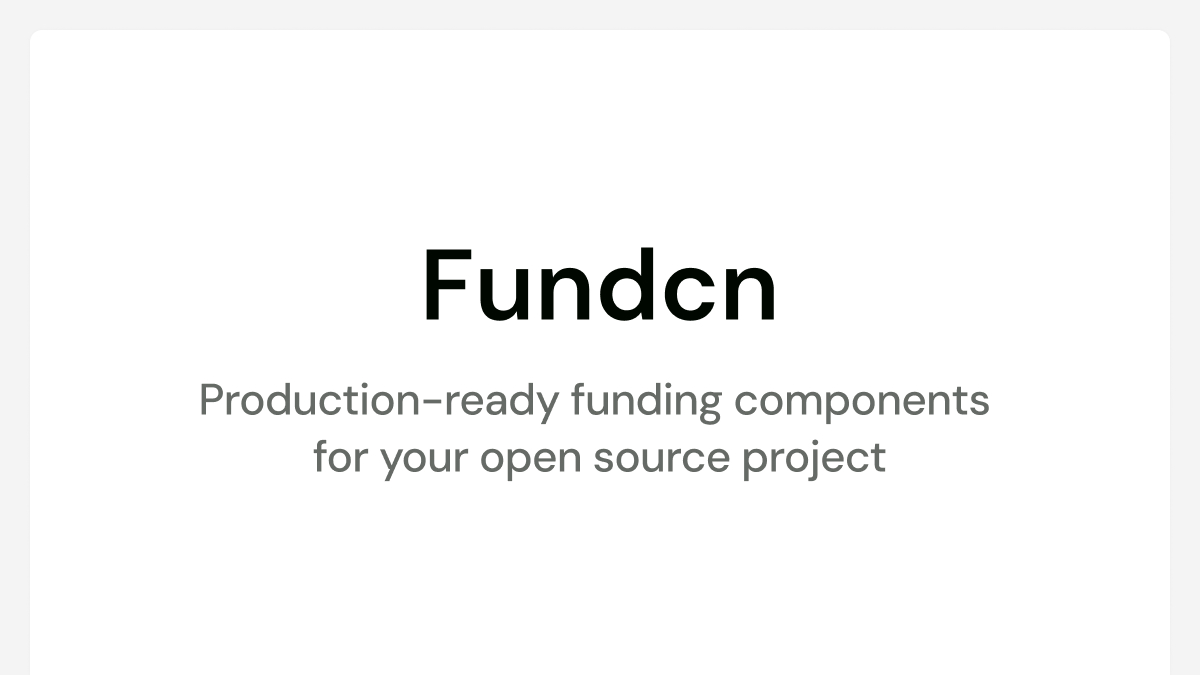
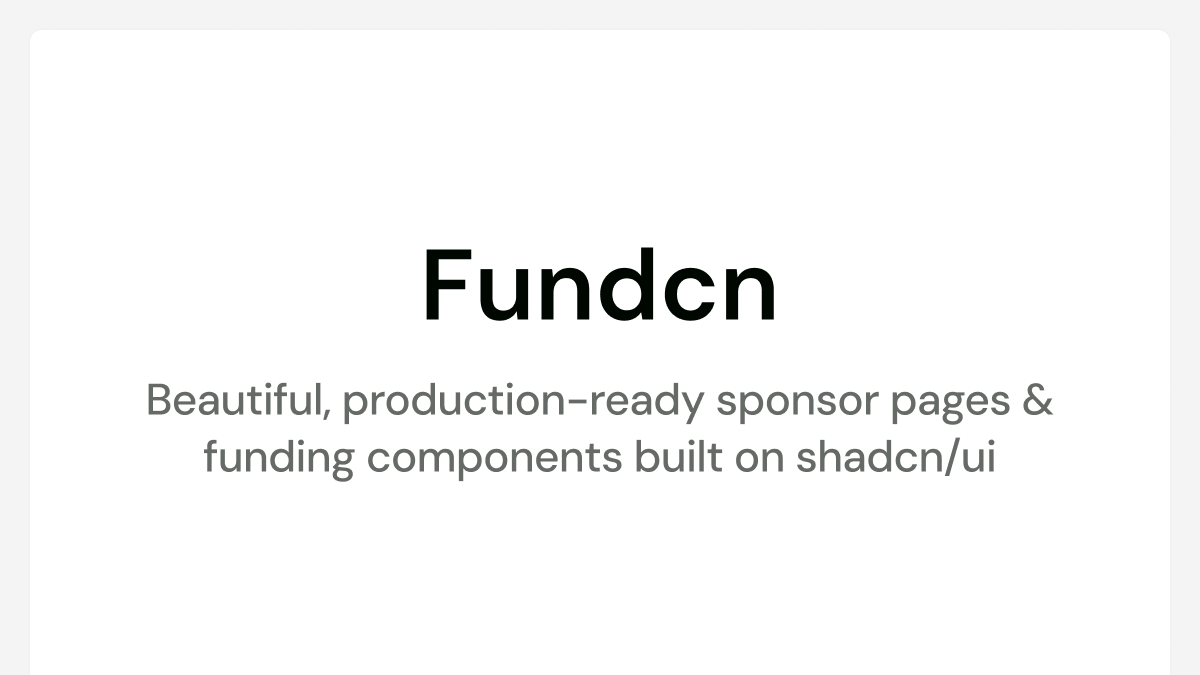
feat: improve pricing table UI and update SEO branding

Changed region(s): [[0.1233, 0.56, 0.8942, 0.7156]]

diff --git a/src/components/builder/topbar.tsx b/src/components/builder/topbar.tsx
@@ -1,9 +1,12 @@
 import { useEffect, useState, lazy, Suspense } from "react"
 import { ChevronDownIcon } from "lucide-react"
+import { MorphIcon } from "morphicons/react"
+import { Moon, Sun } from "lucide"
 
 import { cn } from "@/lib/utils"
 import { useTheme } from "@/hooks/theme-context"
 import { PresetSwatch } from "@/components/builder/preset-swatch"
+import { Button } from "@/components/ui/button"
 
 const ThemeGenerator = lazy(() =>
   import("@/components/builder/theme-generator").then((m) => ({
@@ -16,8 +19,10 @@ function ThemeGeneratorSkeleton() {
   const fallbackTheme = resolvedTheme ?? "light"
 
   return (
-    <button
-      className="flex h-8 w-fit items-center justify-between gap-1.5 rounded-md border border-input bg-transparent py-2 pr-2 pl-2.5 text-sm shadow-none outline-none ring-inset disabled:cursor-not-allowed disabled:opacity-50"
+    <Button
+      variant="outline"
+      size="sm"
+      className="w-36 justify-between pr-2 pl-2.5 shadow-none"
       disabled
     >
       <span className="flex items-center gap-2">
@@ -25,12 +30,13 @@ function ThemeGeneratorSkeleton() {
         {selectedPreset.title}
       </span>
       <ChevronDownIcon className="size-4 text-muted-foreground opacity-50" />
-    </button>
+    </Button>
   )
 }
 
 export function BuilderTopbar() {
   const [isScrolled, setIsScrolled] = useState(false)
+  const { resolvedTheme, setTheme } = useTheme()
 
   useEffect(() => {
     const handleScroll = () => {
@@ -64,8 +70,19 @@ export function BuilderTopbar() {
           <Suspense fallback={<ThemeGeneratorSkeleton />}>
             <ThemeGenerator />
           </Suspense>
+          <Button
+            variant="outline"
+            size="icon-sm"
+            onClick={() => setTheme(resolvedTheme === "dark" ? "light" : "dark")}
+            aria-label="Toggle theme"
+          >
+            <MorphIcon 
+              icon={resolvedTheme === "dark" ? Sun : Moon} 
+              size={16}
+            />
+          </Button>
           <a
-            href="https://x.com/paceui_"
+            href="https://x.com/withden_"
             target="_blank"
             rel="noreferrer"
             className="flex size-8 items-center justify-center rounded-md text-muted-foreground transition-colors outline-none hover:bg-muted hover:text-foreground focus-visible:ring-2 focus-visible:ring-ring"

diff --git a/src/lib/seo.ts b/src/lib/seo.ts
@@ -2,12 +2,12 @@ import type { AnyRouteMatch } from "@tanstack/react-router"
 
 const SITE_URL = "https://fundcn.paceui.com"
 const SITE_NAME = "Fundcn"
-const SITE_TITLE = "Funding & Sponsorship Components for React - Fundcn"
-const SITE_DESCRIPTION =
-  "Beautiful, copy-paste funding and sponsorship components for your React apps, built on shadcn/ui"
+export const SITE_TITLE = "Funding and Sponsorship Page & Components for React | Fundcn"
+export const SITE_DESCRIPTION =
+  "Beautiful, copy-paste funding, sponsorship pages & components for your React apps, built on shadcn/ui"
 const OG_IMAGE = `${SITE_URL}/images/og-image.jpg`
 const OG_IMAGE_ALT =
-  "Fundcn – copy-paste funding and sponsorship components for React apps"
+  "Funding and Sponsorship Page & Components for React - Fundcn"
 
 export const JSON_LD = {
   "@context": "https://schema.org",
@@ -30,7 +30,7 @@ export const JSON_LD = {
         "@type": "ImageObject",
         url: `${SITE_URL}/logo/logo.jpg`,
       },
-      sameAs: ["https://x.com/paceui_", "https://github.com/paceui/fundcn"],
+      sameAs: ["https://x.com/withden_", "https://github.com/paceui/fundcn"],
     },
     {
       "@type": "SoftwareSourceCode",
@@ -85,7 +85,7 @@ export const seoMeta: NonNullable<AnyRouteMatch["meta"]> = [
   { property: "og:image:height", content: "675" },
   { property: "og:image:alt", content: OG_IMAGE_ALT },
   { name: "twitter:card", content: "summary_large_image" },
-  { name: "twitter:site", content: "@paceui_" },
+  { name: "twitter:site", content: "@withden_" },
   { name: "twitter:title", content: SITE_TITLE },
   { name: "twitter:description", content: SITE_DESCRIPTION },
   { name: "twitter:image", content: OG_IMAGE },

diff --git a/src/components/sponsor/pricing/compare.tsx b/src/components/sponsor/pricing/compare.tsx
@@ -78,13 +78,13 @@ export function PricingCompare() {
             role="table"
             aria-label="Pricing"
             className="w-full text-sm"
-            style={{ minWidth: `${11 + cards.length * 12}rem` }}
+            style={{ minWidth: `${13 + cards.length * 12}rem` }}
           >
             <div role="row" className="flex">
               <div
                 role="columnheader"
                 className={cn(
-                  "sticky left-0 z-10 w-44 shrink-0 border-r border-border bg-background",
+                  "sticky left-0 z-10 w-52 shrink-0 border-r border-border bg-background",
                   rows.length > 0 && "border-b"
                 )}
               />
@@ -130,7 +130,7 @@ export function PricingCompare() {
                 <div
                   role="rowheader"
                   className={cn(
-                    "sticky left-0 z-10 flex w-44 shrink-0 flex-col justify-center border-r border-border bg-background p-4 text-left font-normal",
+                    "sticky left-0 z-10 flex w-52 shrink-0 flex-col justify-center border-r border-border bg-background p-4 text-left font-normal whitespace-nowrap text-xs sm:text-sm",
                     rowIndex < rows.length - 1 && "border-b"
                   )}
                 >

diff --git a/src/routes/index.tsx b/src/routes/index.tsx
@@ -14,6 +14,7 @@ import {
 import { BuilderFooter } from "@/components/builder/footer"
 import { BuilderTopbar } from "@/components/builder/topbar"
 import { PreviewToolbar } from "@/components/builder/toolbar"
+import { SITE_TITLE, SITE_DESCRIPTION } from "@/lib/seo"
 
 type BuilderChoice = {
   sponsorId: SponsorId
@@ -70,6 +71,8 @@ function App() {
     <div className="min-h-svh bg-background">
       <BuilderTopbar />
       <main className="pb-28">
+        <h1 className="sr-only">{SITE_TITLE}</h1>
+        <h2 className="sr-only">{SITE_DESCRIPTION}</h2>
         <Sponsor tiers={hasData ? demoSponsorTiers : emptySponsorTiers} />
         <div ref={pricingRef}>
           <Pricing />

diff --git a/vite.config.ts b/vite.config.ts
@@ -3,10 +3,19 @@ import { devtools } from "@tanstack/devtools-vite"
 import { tanstackStart } from "@tanstack/react-start/plugin/vite"
 import viteReact from "@vitejs/plugin-react"
 import tailwindcss from "@tailwindcss/vite"
+import { nitro } from "nitro/vite"
 
 const config = defineConfig({
   resolve: { tsconfigPaths: true },
-  plugins: [devtools(), tailwindcss(), tanstackStart(), viteReact()],
+  plugins: [
+    devtools(),
+    tailwindcss(),
+    tanstackStart(),
+    nitro({
+      preset: "vercel",
+    }),
+    viteReact(),
+  ],
 })
 
 export default config

diff --git a/src/components/builder/providers.tsx b/src/components/builder/providers.tsx
@@ -3,11 +3,13 @@ import { ThemeProvider as NextThemesProvider } from "next-themes"
 import { ThemeProvider } from "@/hooks/theme-context"
 
 import type { ReactNode } from "react"
+import { Analytics } from "@vercel/analytics/react"
 
 export function AppProviders({ children }: { children: ReactNode }) {
   return (
     <NextThemesProvider attribute="class" defaultTheme="system" enableSystem>
       <ThemeProvider>{children}</ThemeProvider>
+      <Analytics />
     </NextThemesProvider>
   )
 }

diff --git a/src/components/builder/theme-generator.tsx b/src/components/builder/theme-generator.tsx
@@ -27,7 +27,7 @@ export function ThemeGenerator({ className }: { className?: string }) {
       <SelectTrigger
         aria-label="Theme preset"
         size="sm"
-        className={cn("w-fit shadow-none ring-inset", className)}
+        className={cn("w-36 shadow-none ring-inset", className)}
       >
         <SelectValue>
           <span className="flex items-center gap-2">

diff --git a/src/components/builder/footer.tsx b/src/components/builder/footer.tsx
@@ -1,7 +1,7 @@
 const SOCIALS = [
   {
     label: "Fundcn on X",
-    href: "https://x.com/paceui_",
+    href: "https://x.com/withden_",
     logo: "https://cdn.paceui.com/brand-logos/x.svg",
   },
   {
